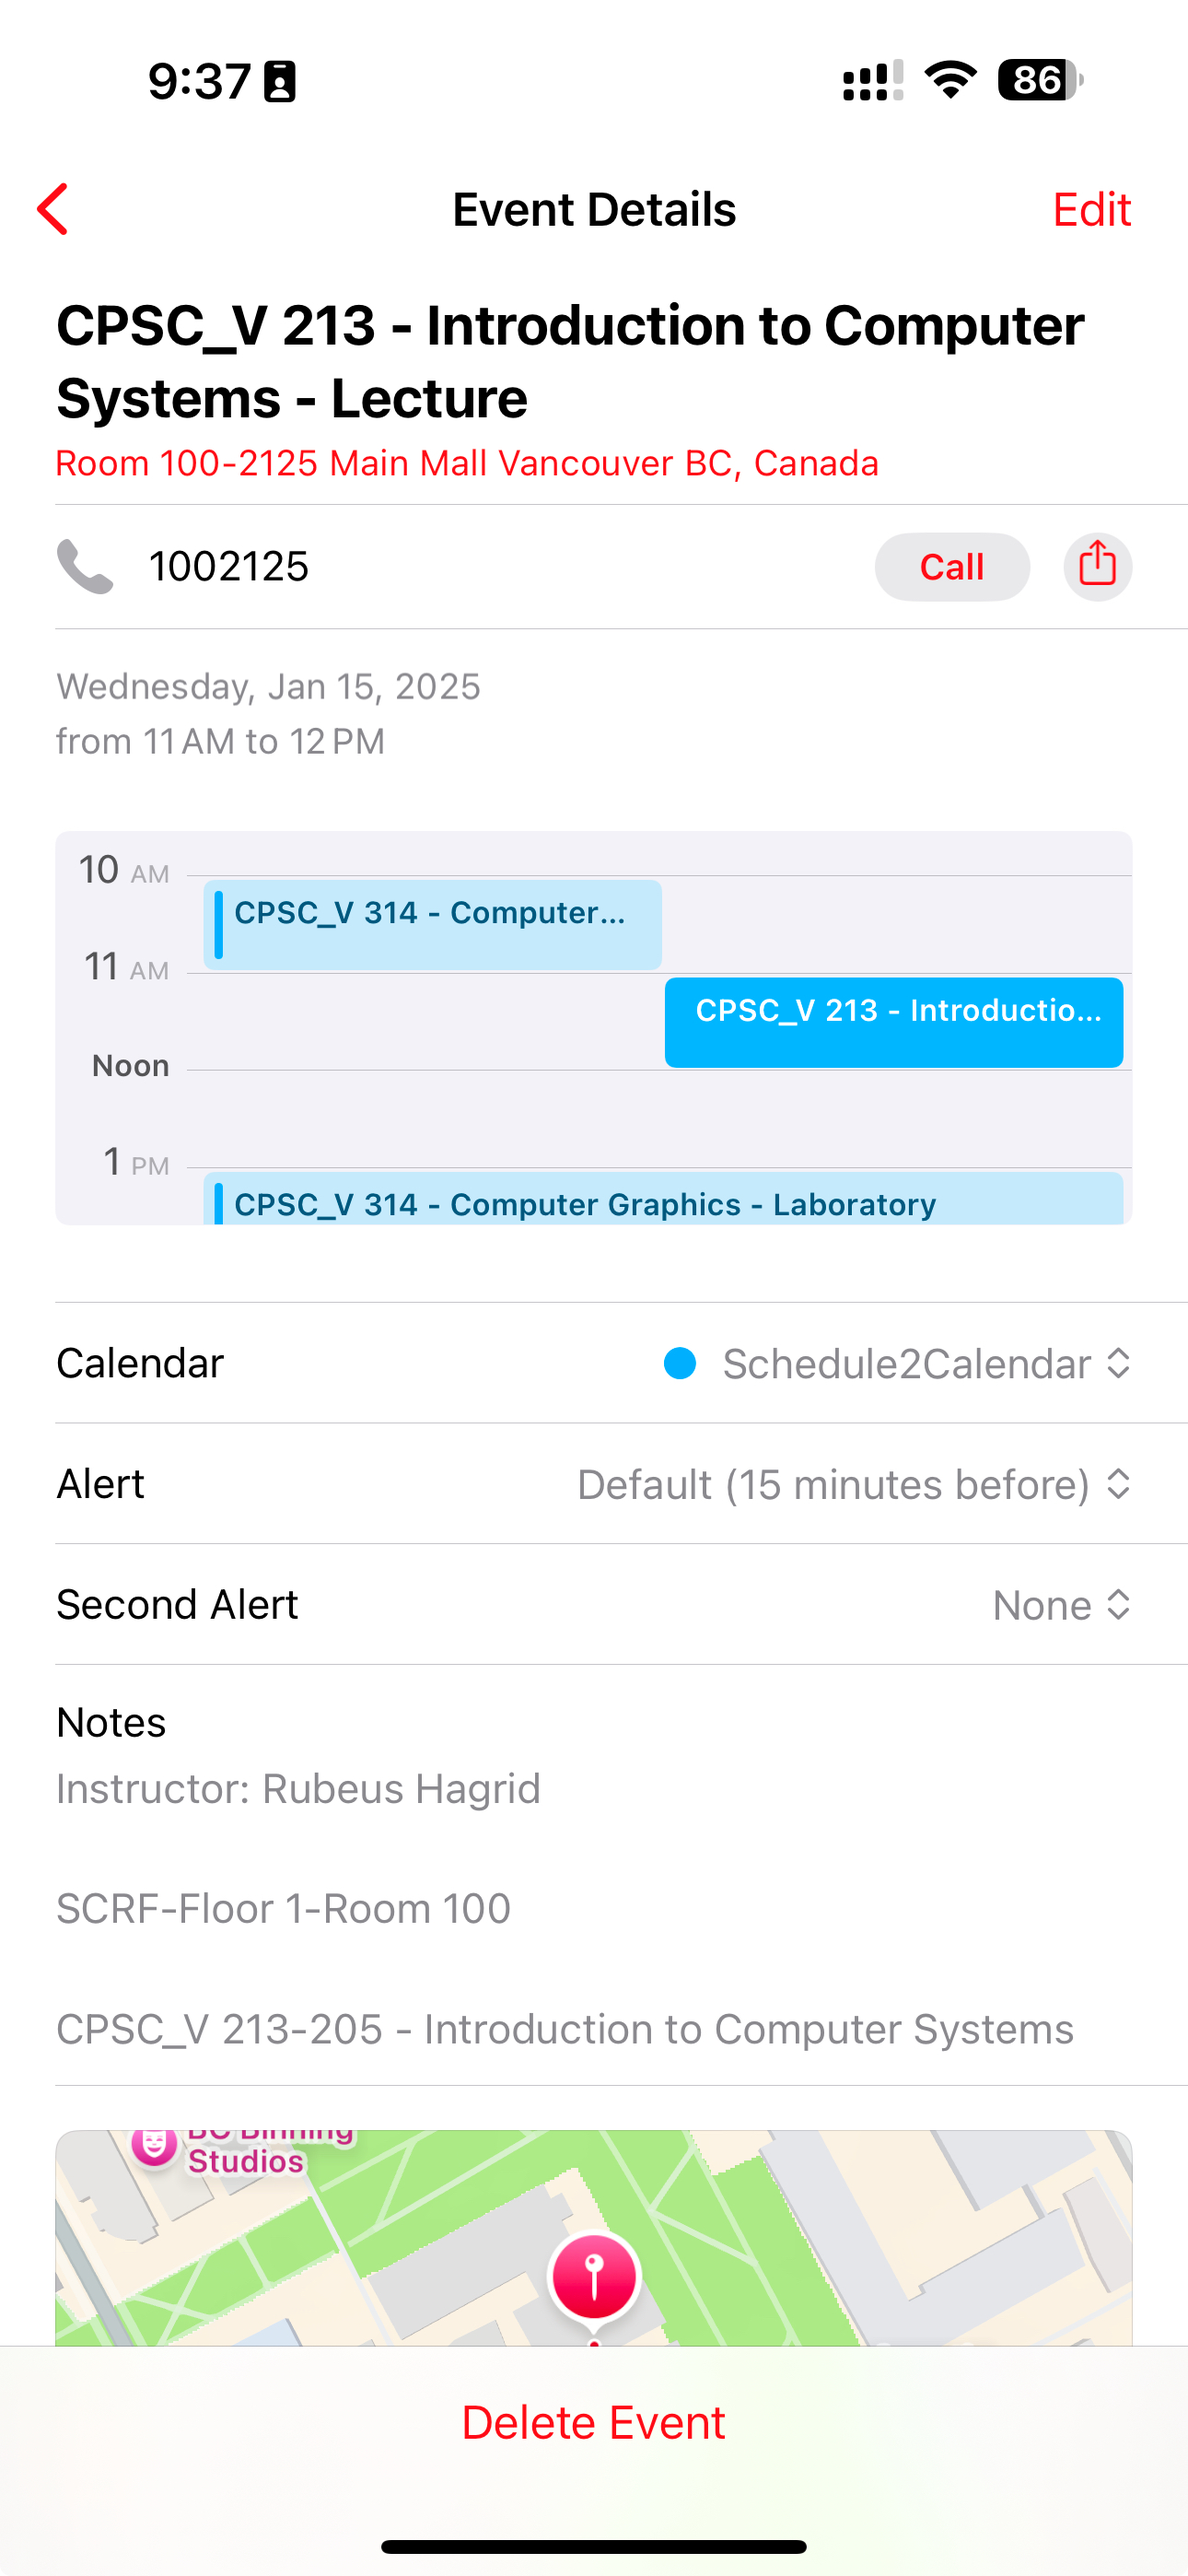
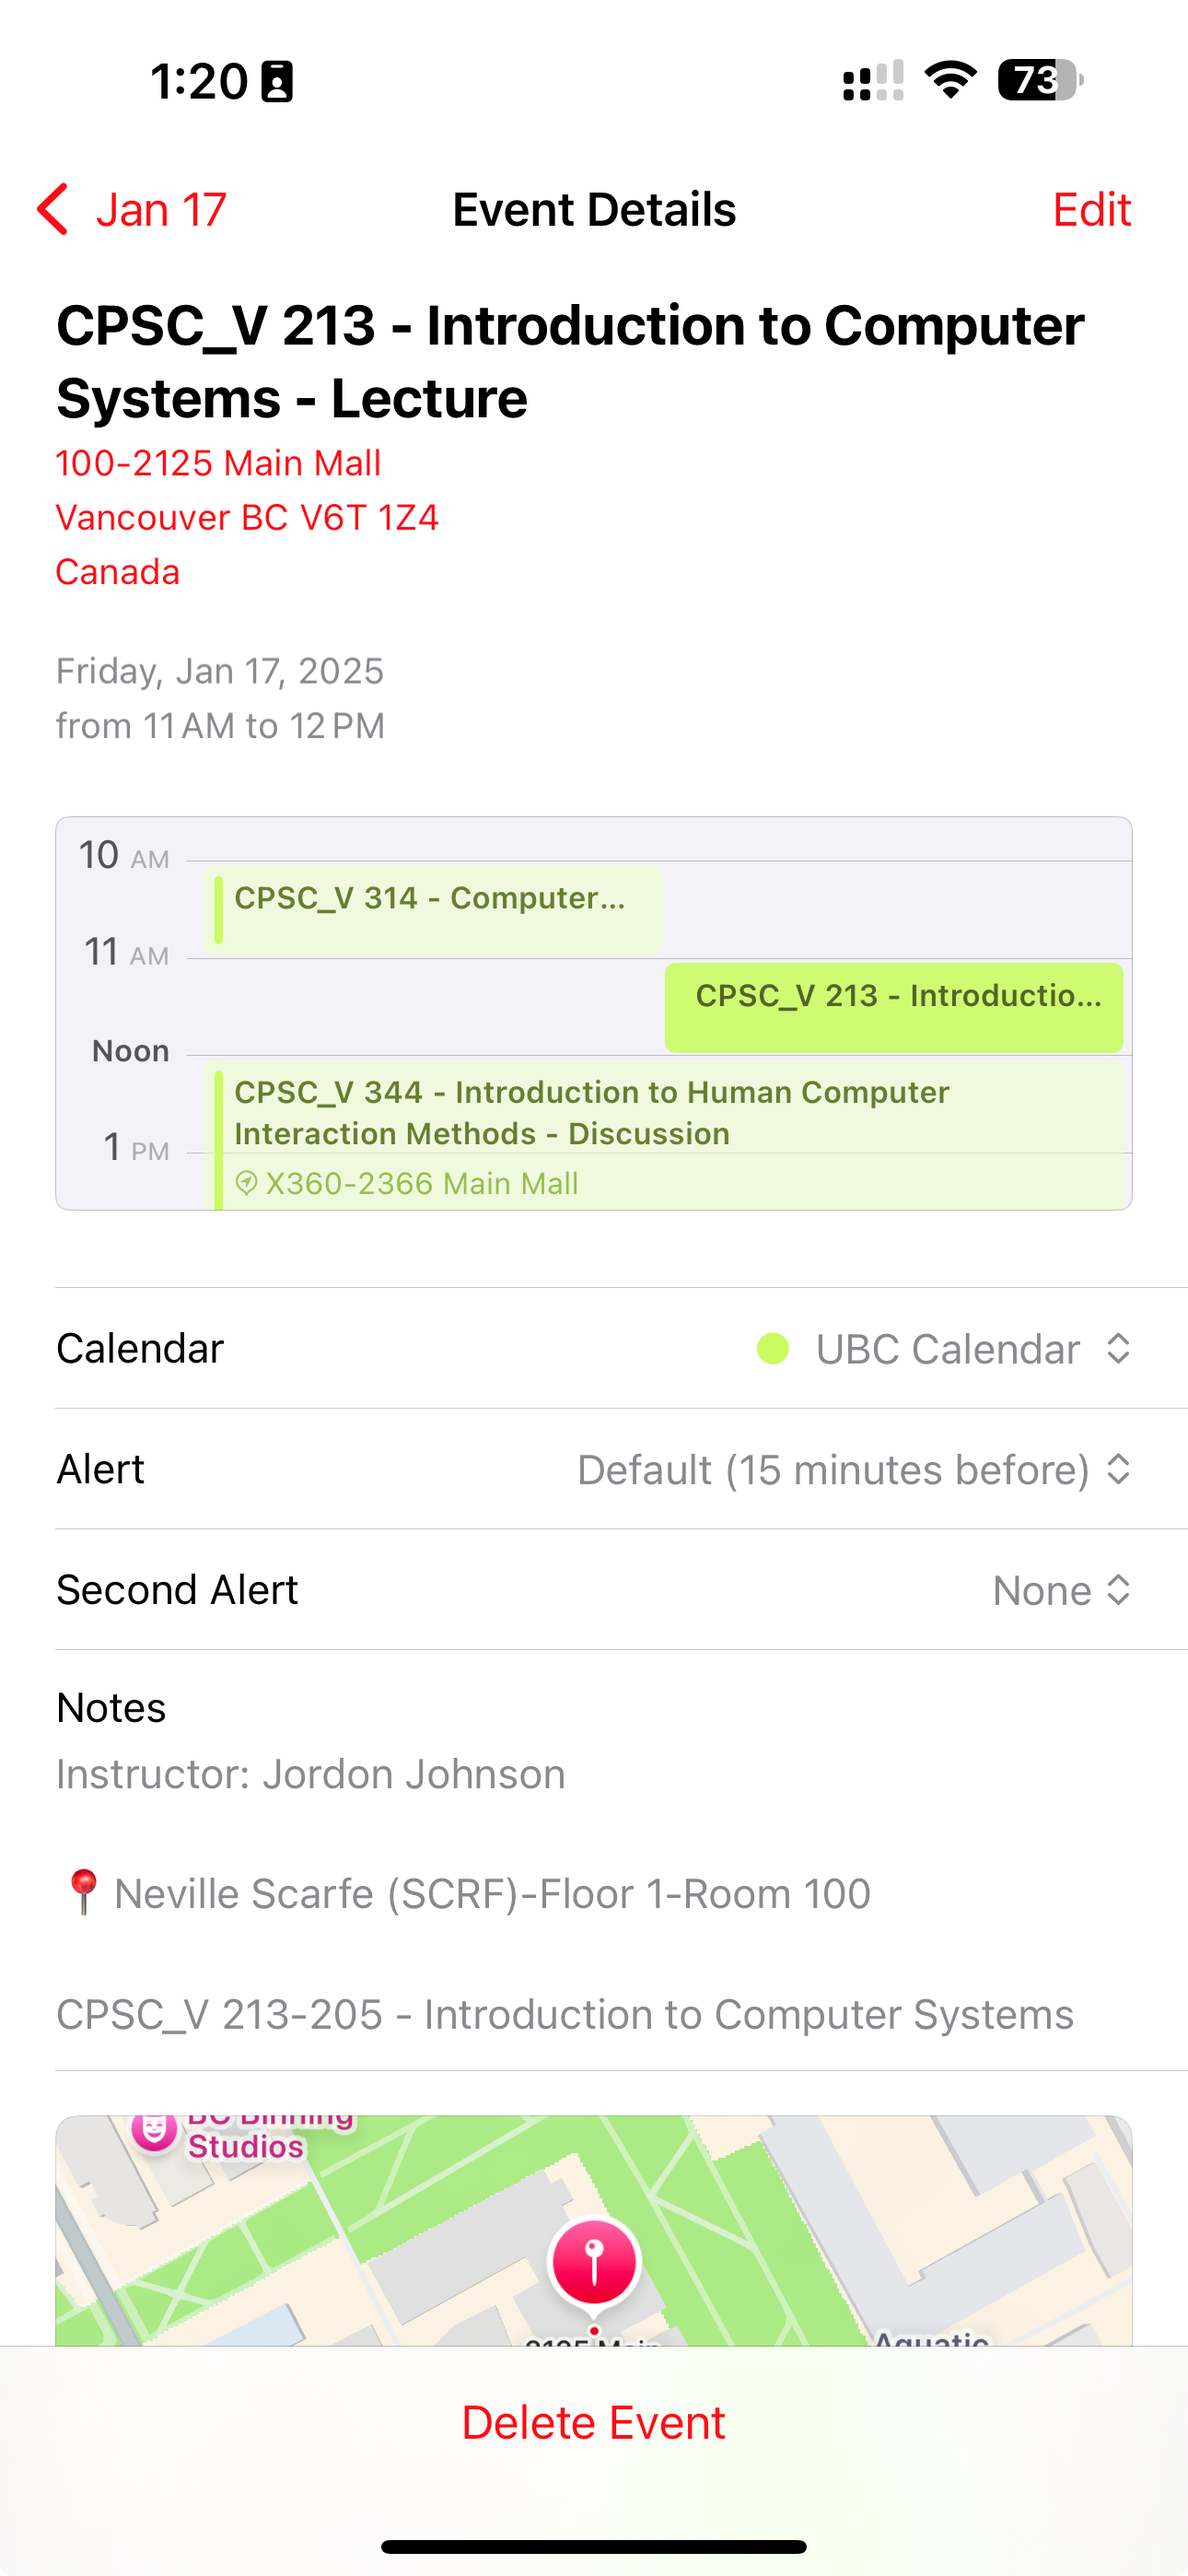
Added the full building name in description. Fixed the issue that was showin a phone number in the address.

diff --git a/Server.py b/Server.py
@@ -13,10 +13,16 @@ def load_addresses(csv_path):
     address_map = {}
     with open(csv_path, 'r') as file:
         reader = csv.reader(file)
+        next(reader)  # Skip header row if you have one
         for row in reader:
             building_name, code, address = row
-            address_map[code] = address
+            # Store both name and address in a dictionary for each code
+            address_map[code] = {
+                "name": building_name,
+                "address": address
+            }
     return address_map
+
 
 ADDRESS_MAP = load_addresses('Address.csv')
 
@@ -26,10 +32,28 @@ def parse_address(location, address_map):
     if len(parts) >= 2:
         building_code = parts[0].strip()
         room_info = parts[-1].strip()
+        
+        # Remove "Room" if it appears at the beginning
+        if room_info.startswith("Room"):
+            room_info = room_info[5:].strip()
+        
         if building_code in address_map:
-            return f"{room_info}-{address_map[building_code]} Vancouver BC, Canada"
+            building_address = address_map[building_code]["address"]
+            # Format full address as requested
+            return f"{room_info}-{building_address}\nVancouver BC V6T 1Z4\nCanada"
     return "Unknown Address"
 
+# Function to get the full building name
+def get_building_full_name(location, address_map):
+    parts = location.split('-')
+    if len(parts) >= 2:
+        building_code = parts[0].strip()
+        room_info = '-'.join(parts[1:]).strip() 
+        
+        if building_code in address_map:
+            building_name = address_map[building_code]["name"]
+            return f"📍{building_name} ({building_code})-{room_info}"
+    return location
 
 # Function to parse time
 def parse_time(time_str):
@@ -103,7 +127,8 @@ def upload():
                     start_datetime = datetime.combine(current_date, start_time)
                     end_datetime = datetime.combine(current_date, end_time)
                     full_address = parse_address(location, ADDRESS_MAP)
-                    description = f'Instructor: {instructor}\n\n{location}\n{details}'
+                    building_full_description = get_building_full_name(location, ADDRESS_MAP)
+                    description = f'Instructor: {instructor}\n\n{building_full_description}\n\n{details}'
                     event = create_event(name, start_datetime, end_datetime, location, full_address, description)
                     cal.add_component(event)
                 
